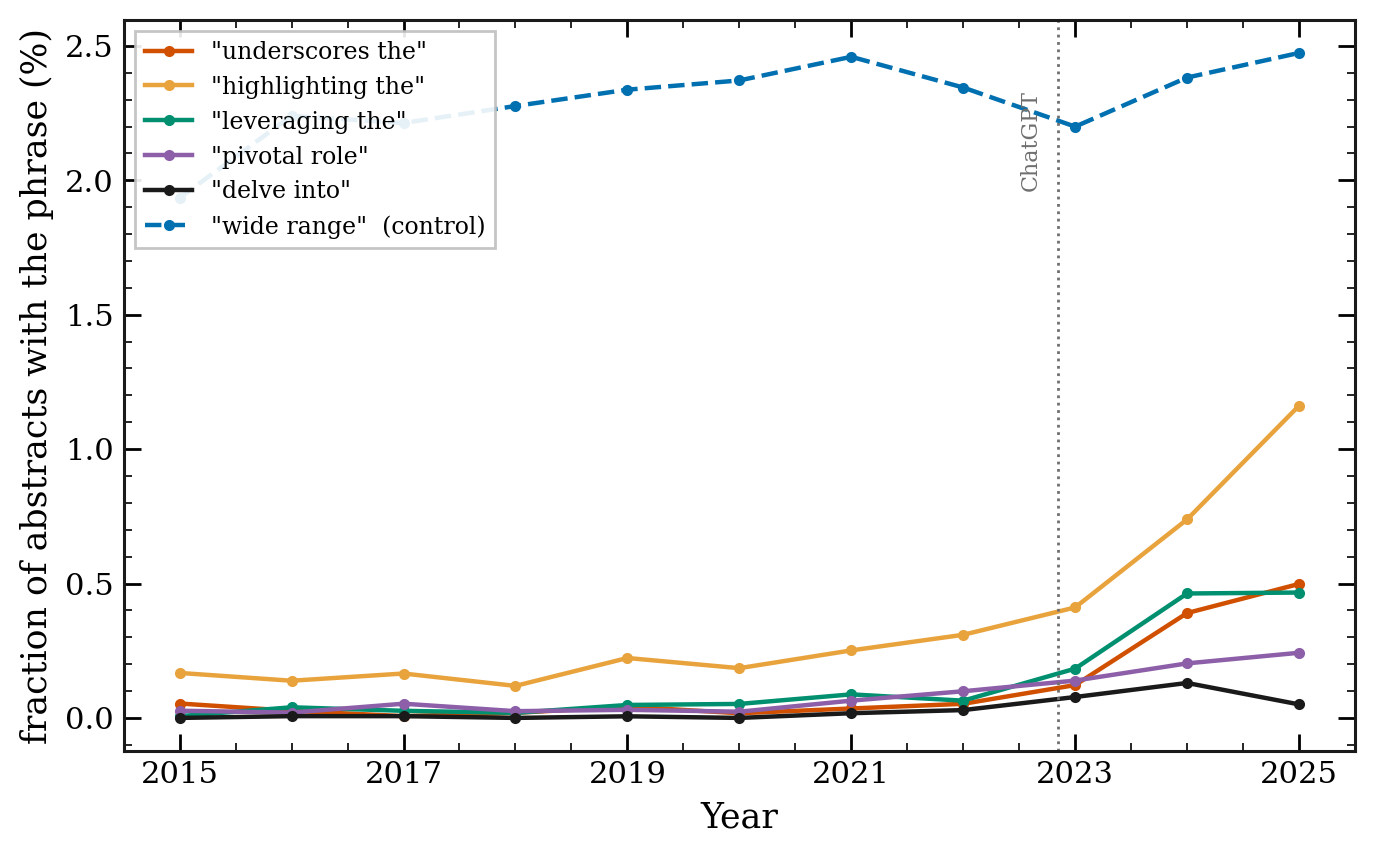
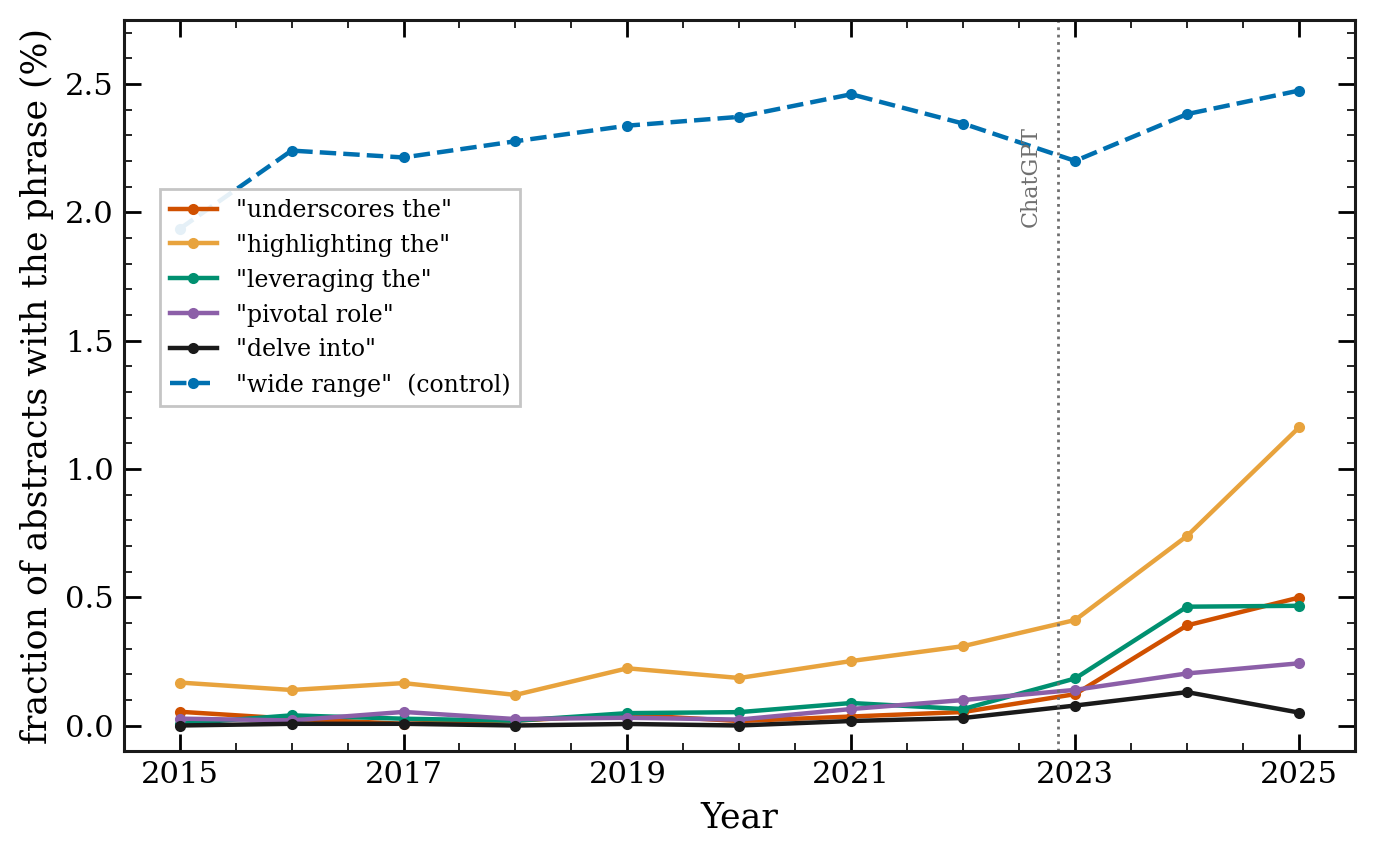
Expand paper (equations, marker-word table, refereeing + feedback-loop discussion, robustness) and fix figure placement and legend overlaps
- Add estimator and co-occurrence lift equations; add Table 1 of marker-word ratios.
- Expand introduction (stakes, three modes of use) and discussion (implications for
  refereeing and disclosure norms; the training-corpus feedback loop).
- Fix floats with placeins + \FloatBarrier so figures sit near their text (12 pp).
- Fix legend-over-data overlaps in the n-gram viewer and detectability figures.
- Style linter still PASS (0 Tier-A, 0 phrase tells).

diff --git a/src/plots2.py b/src/plots2.py
@@ -50,9 +50,9 @@ def fig8_detectability():
     # LEFT: marker clusters quarterly
     axL.plot(s.yq, s.all_markers*100, color=C["black"], lw=3, label="all markers", zorder=5)
     axL.plot(s.yq, s.collapsing*100, "-o", ms=3.5, color=C["vermillion"], lw=1.9,
-             label="early tells (delve, intricate, pivotal ...)")
+             label="early tells")
     axL.plot(s.yq, s.rising*100, "-o", ms=3.5, color=C["green"], lw=1.9,
-             label="late tells (underscore, leveraging, notably ...)")
+             label="late tells")
     axL.text(2025.55, axL.get_ylim()[1]*0.12, "2026:\nboth fall", fontsize=9, color=C["grey"])
     axL.set_xlabel("Year (quarterly)"); axL.set_ylabel("% of abstracts with marker(s)")
     axL.legend(loc="upper left", fontsize=8.8)

diff --git a/src/plots_ngram.py b/src/plots_ngram.py
@@ -25,7 +25,8 @@ def fig_ngram_viewer():
     ax.text(2022.7, ax.get_ylim()[1]*0.9, "ChatGPT", rotation=90, va="top",
             ha="right", fontsize=8, color=C["grey"])
     ax.set_xlabel("Year"); ax.set_ylabel("fraction of abstracts with the phrase (%)")
-    ax.legend(fontsize=8.5, loc="upper left")
+    ax.set_ylim(-0.1, 2.75)
+    ax.legend(fontsize=8.5, loc="center left", bbox_to_anchor=(0.02, 0.62))
     ax.set_xticks(range(2015, 2026, 2))
     fig.tight_layout()
     fig.savefig(os.path.join(FIGS, "fig_ngram_viewer.png"), bbox_inches="tight"); plt.close(fig)
